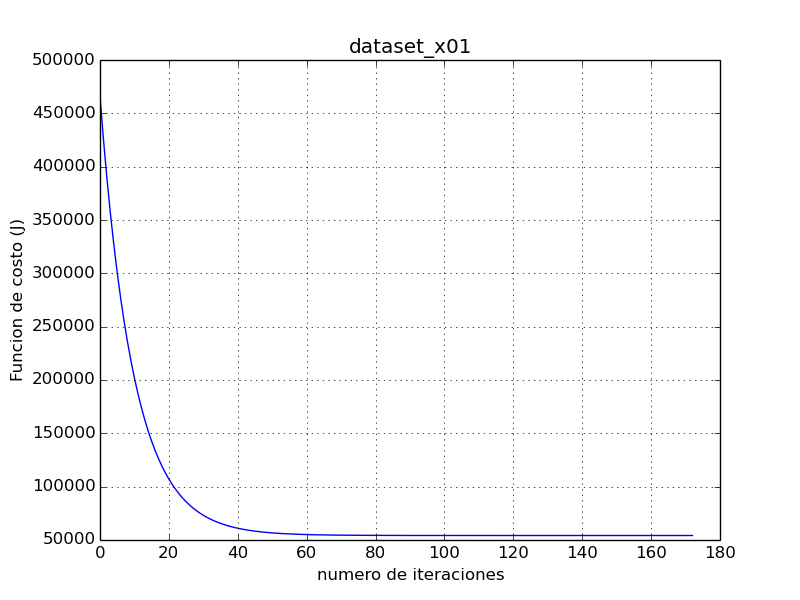
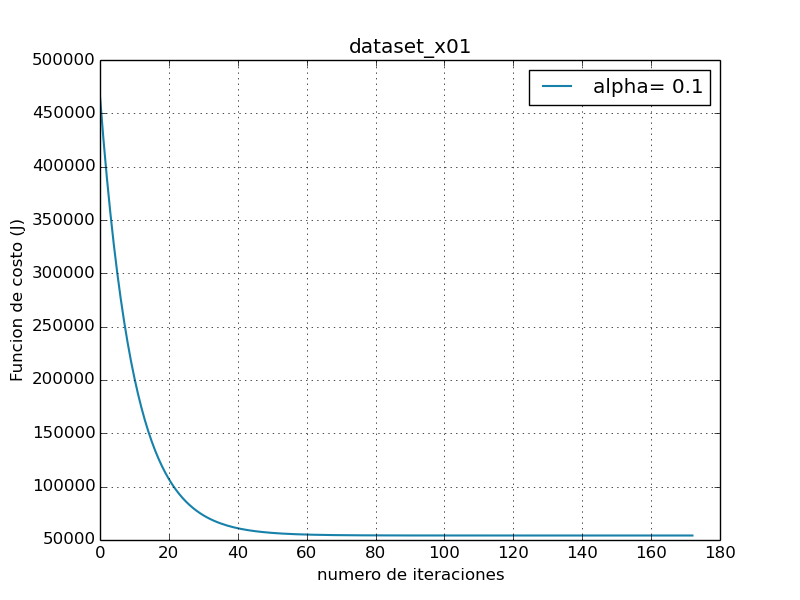
mejorando los graficos

diff --git a/IA_II/proyecto1/question2.py b/IA_II/proyecto1/question2.py
@@ -20,6 +20,14 @@ import matplotlib.pyplot as plt # This provides functions for making plots
 import linearRegression as lr   # linear regresion library
 # .----------------------------------------------------------------------------.
 
+colors = {'purple' : '#78037F',
+          'orange' : '#F55D3E',
+          'magenta': '#A4243B',
+          'gray'   : '#454545',
+          'blue'   : '#1781AA',
+          'green'  : '#6DA34D', #23CE6B
+         }
+
 # Two parameters: input file with data and learning rate (alpha)
 def main():
 
@@ -37,7 +45,7 @@ def main():
 
     # Simple plot: iterations vs cost function
     iterations = np.arange(0, result['nIterations'] + 1, 1)
-    makeSimplePlot(iterations, result['costFunction'], dataSetName)
+    makeSimplePlot(iterations, result['costFunction'], dataSetName, alpha, colors['blue'])
     plt.show()
 
     # Scatter plot: feature xi vs result and hypothesis
@@ -65,7 +73,7 @@ def main():
 
     # Simple plot: iterations vs cost function
     iterations = np.arange(0, result['nIterations'] + 1, 1)
-    makeSimplePlot(iterations, result['costFunction'], dataSetName)
+    makeSimplePlot(iterations, result['costFunction'], dataSetName, alpha, colors['purple'])
     plt.show()
 
     #------------------------------ end question a ---------------------------#
@@ -75,7 +83,8 @@ def main():
     alphas = [0.1, 0.3, 0.5, 0.7, 0.9, 1.0]
 
     ds_08 = lr.DataSet(dataSetName + '.txt')
-
+    colorsKeys = colors.keys()
+    color = 0;
     for alpha in alphas :
         result = lr.gradientDescent(alpha, ds_08.varList, ds_08.resultList, ds_08.thetas, ds_08.rows, ds_08.columns)
         print(result['converge']) # Let you know if the function converge.
@@ -84,7 +93,9 @@ def main():
 
         # Simple plot: iterations vs cost function
         iterations = np.arange(0, result['nIterations'] + 1, 1)
-        makeSimplePlot(iterations, result['costFunction'], dataSetName + '_multiple')
+        makeSimplePlot(iterations, result['costFunction'], dataSetName + '_multiple', alpha, colors[colorsKeys[color]])
+        color = color + 1
+
     plt.show()
     #------------------------------ end question b ---------------------------#
 
@@ -94,14 +105,18 @@ def main():
         @param iterations   : position of the theta to use.
         @param costFunction : array that contains the values for every cost
         @param dsName       : name of dataset
+        @param label        : label of the legend plot
+        @param color        : color of the line on the plot
 """
-def makeSimplePlot(iterations, costFunction, dsName):
-    plt.plot(iterations, costFunction)
+def makeSimplePlot(iterations, costFunction, dsName, label, color):
+    plt.plot(iterations, costFunction, label='alpha= ' + str(label), c=color, linewidth=1.5)
     plt.xlabel("numero de iteraciones")
     plt.ylabel("Funcion de costo (J)")
     plt.title(dsName)
     plt.grid(True)
+    plt.legend()
     plt.savefig(dsName + ".png")
+
 """
     Descripction: scatter plot of the cost function against number of iterations
     Parameters:
@@ -113,11 +128,13 @@ def makeSimplePlot(iterations, costFunction, dsName):
         @param dsName      : name of dataset
 """
 def makeScatterPlot(feature, result, linearReg, featureName, resultName, dsName):
-    plt.scatter(feature, result)
-    plt.plot(feature, linearReg)
+
+    plt.scatter(feature, result, c=colors['orange'], edgecolor = colors['gray'])
+    plt.plot(feature, linearReg, label='regresion lineal', c=colors['gray'])
     plt.xlabel(featureName)
     plt.ylabel(resultName)
     plt.title(dsName)
+    plt.legend()
     plt.savefig(dsName + "_scatter.png")
 
 # .----------------------------------------------------------------------------.
